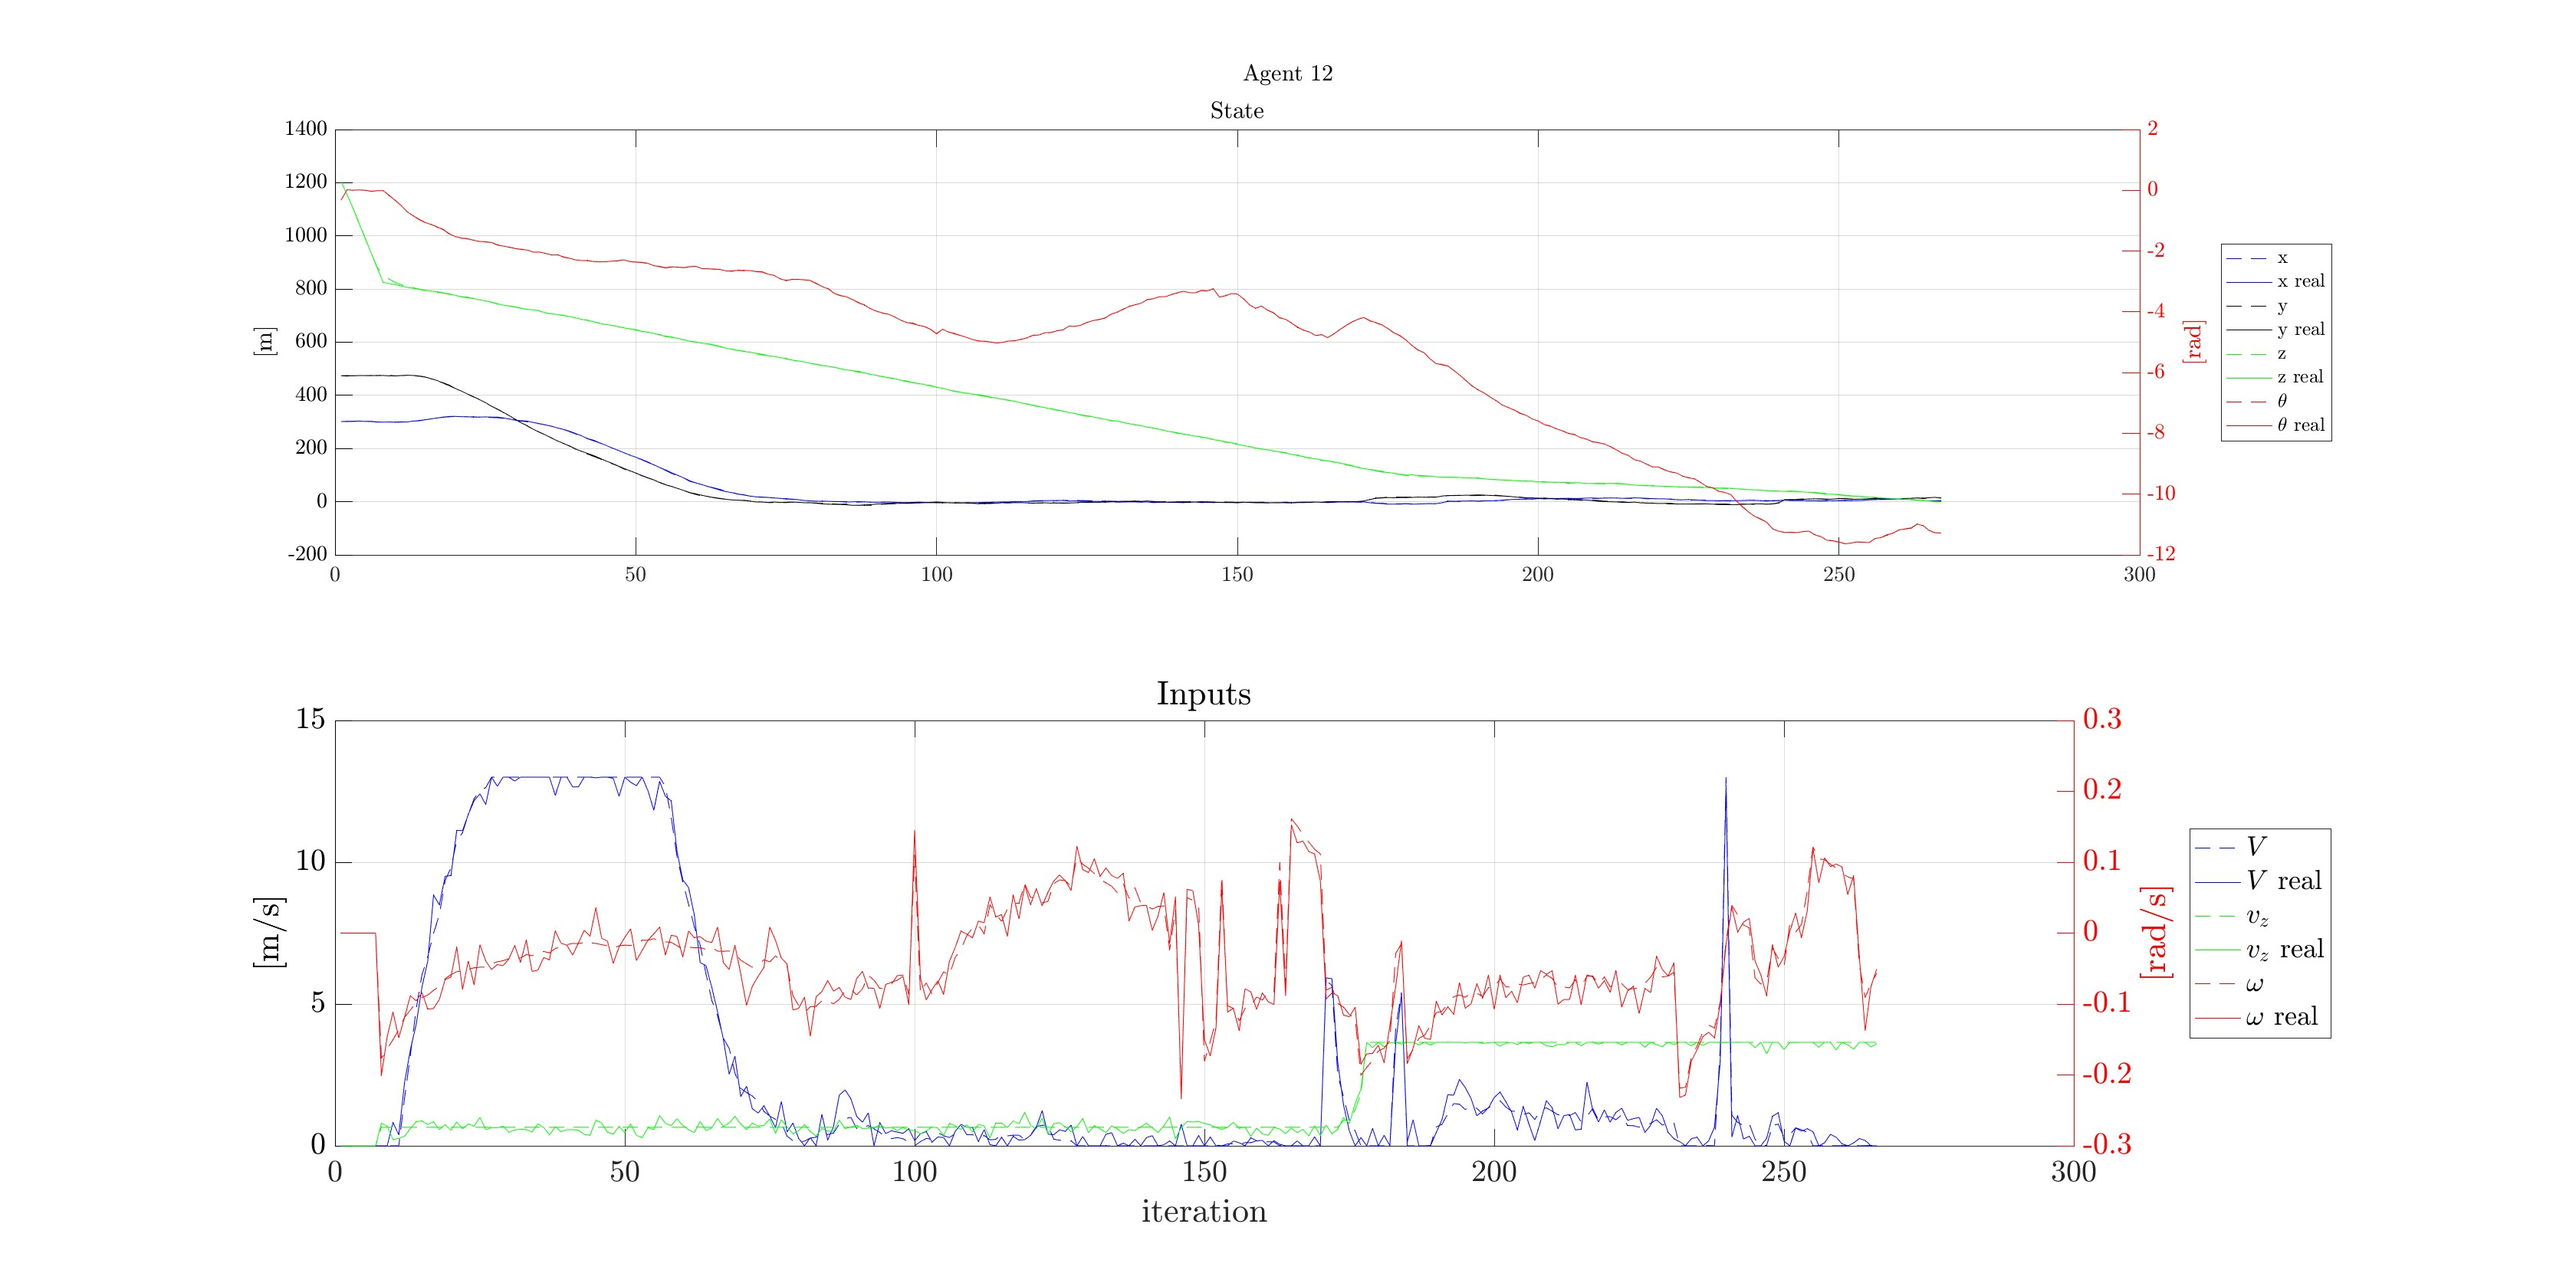
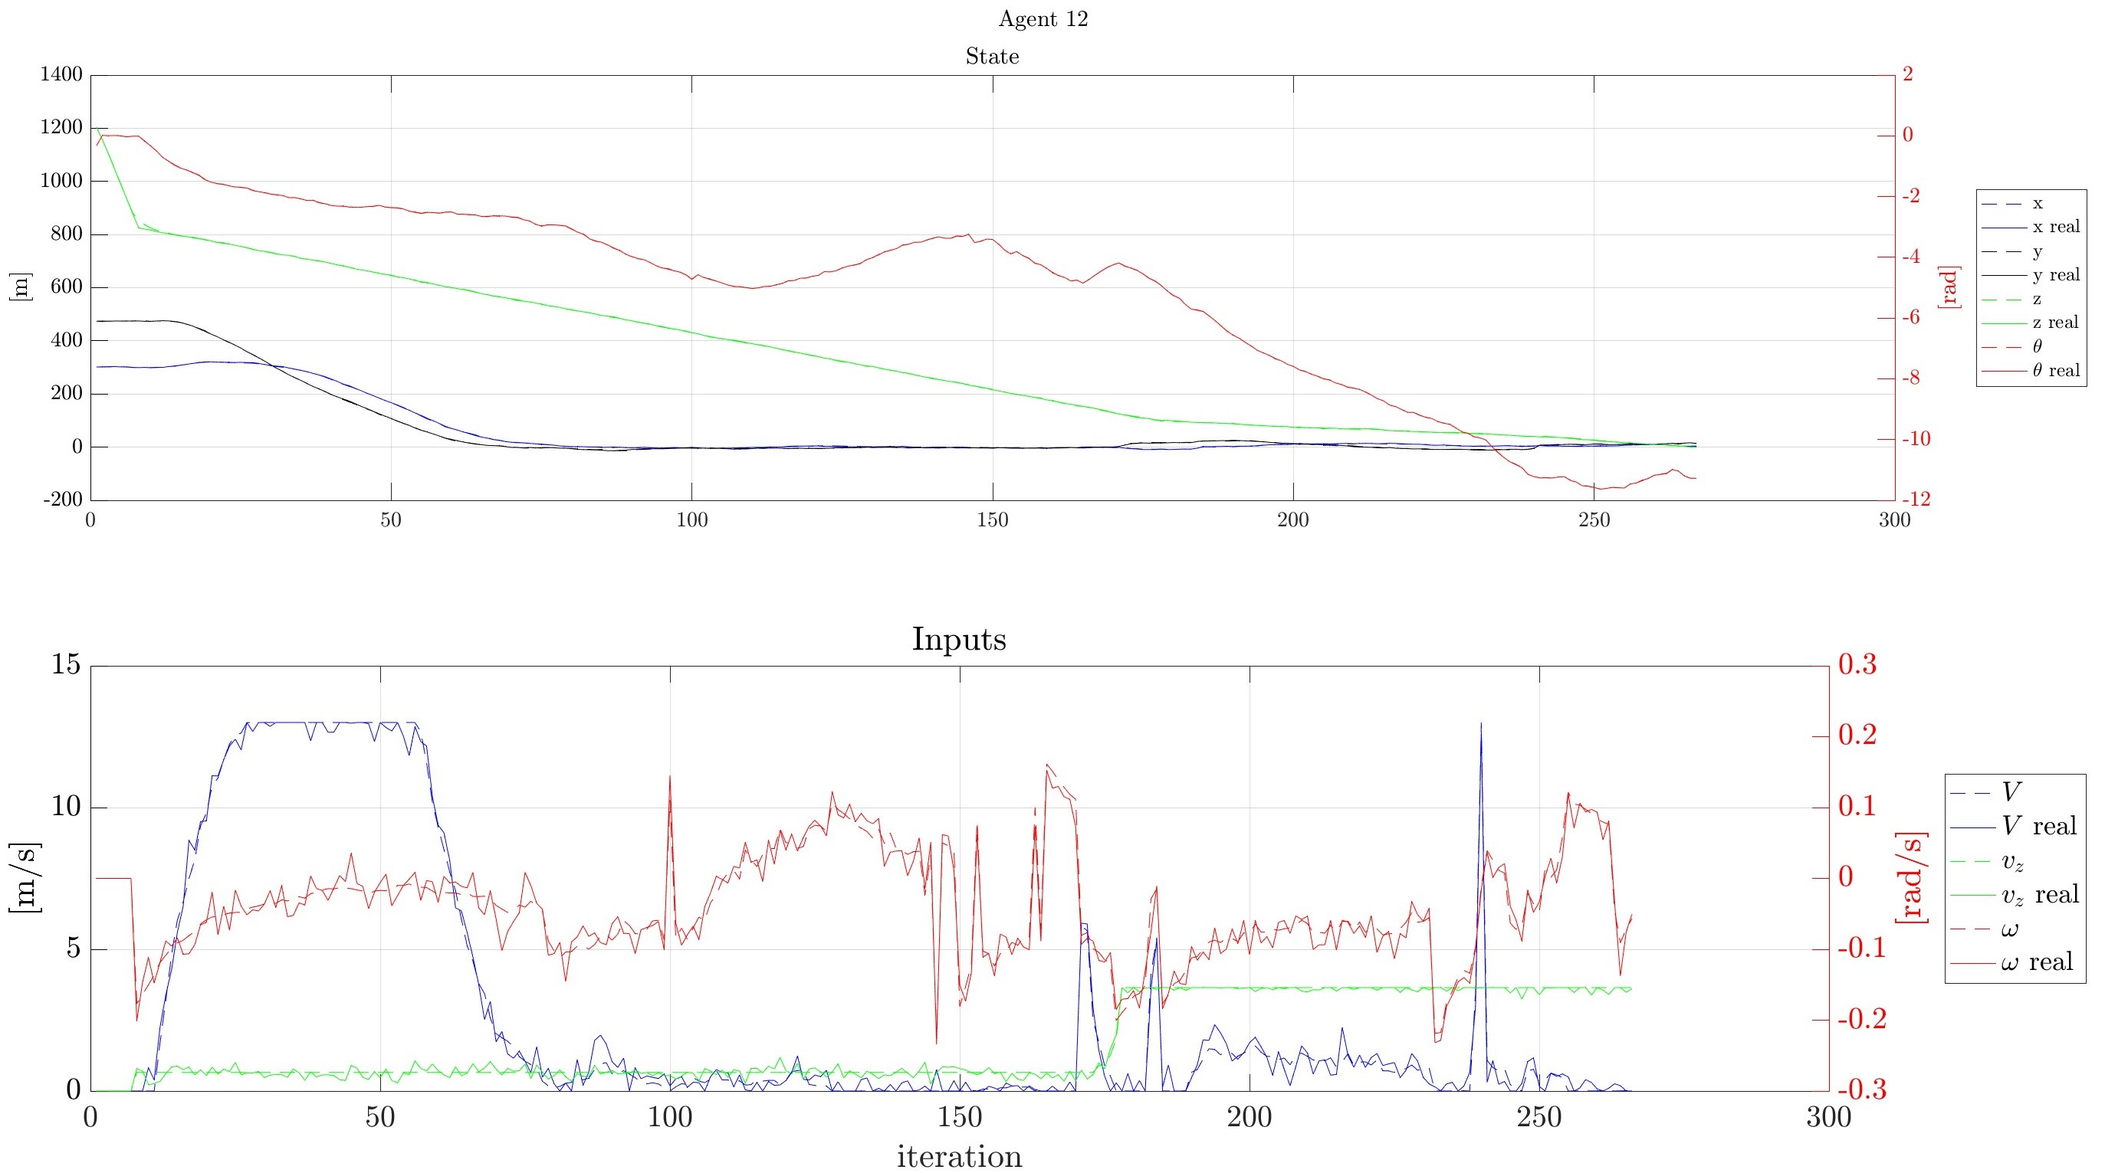
export figure added

diff --git a/src/functions/plot_chutes_trajectory.m b/src/functions/plot_chutes_trajectory.m
@@ -13,29 +13,30 @@ function [] = plot_chutes_trajectory(agents,true_centroid_store, j_fig, w_store,
   % if there is only one simulation plot the trajectory, the states, the inputs and the falling velocity
   if parametric == 0
     %% 3D trajectories
-    fig_3D = figure('Name', '3D trajectory','NumberTitle','off', 'Color', 'w'); clf;
-    hold all
-    for i=1:n_agents
-      plot3(agents{i}.x_real_store(1,:), agents{i}.x_real_store(2, :), agents{i}.x_real_store(3, :),'DisplayName', ['Agent ', num2str(i)])
-    end
-    plot3(target(1), target(2), target(3), 'o', 'MarkerSize', marker_size,'DisplayName', 'TARGET');
-    plot3(true_centroid_store(1, :), true_centroid_store(2,:), true_centroid_store(3, :), 'r--', 'DisplayName', 'Centroid', 'LineWidth', 2)
-    xlabel('x [m] ')
-    ylabel('y [m]')
-    zlabel('z [m]')
-    legend('Location', 'bestoutside')
-    title('3D Trajectory')
-    grid on
-    xlim([-500 500])
-    ylim([-50 600])
-    % xlim([-abs(2*x0(1)+0.6*position_range), abs(x0(1)+0.6*position_range)])
-    % ylim([-abs(x0(2)+0.6*position_range), abs(x0(2)+0.6*position_range)])
-    zlim([0, x0(3) + 0.6*position_range])
-    axis equal
-    set(gca,'FontSize',par.font_size)
-    if enable_export == 1
-       export_figure(fig_3D, 'fig_3D.eps', 'images\');
-    end
+    % fig_3D = figure('Name', '3D trajectory','NumberTitle','off', 'Color', 'w'); clf;
+    % hold all
+    % for i=1:n_agents
+    %   plot3(agents{i}.x_real_store(1,:), agents{i}.x_real_store(2, :), agents{i}.x_real_store(3, :),'DisplayName', ['Agent ', num2str(i)],'LineWidth',line_width)
+    % end
+    % plot3(target(1), target(2), target(3), 'o', 'MarkerSize', marker_size,'DisplayName', 'TARGET');
+    % plot3(true_centroid_store(1, :), true_centroid_store(2,:), true_centroid_store(3, :), 'r--', 'DisplayName', 'Centroid', 'LineWidth', 2*line_width)
+    % xlabel('x [m] ')
+    % ylabel('y [m]')
+    % zlabel('z [m]')
+    % legend('Location', 'best','FontSize',par.font_size)
+    % title('3D Trajectory')
+    % grid on
+    % xlim([-100 600])
+    % ylim([-200 800])
+    % % xlim([-abs(2*x0(1)+0.6*position_range), abs(x0(1)+0.6*position_range)])
+    % % ylim([-abs(x0(2)+0.6*position_range), abs(x0(2)+0.6*position_range)])
+    % zlim([0, x0(3) + 0.6*position_range])
+    % axis equal
+    % view(45,20)
+    % set(gca,'FontSize',par.font_size)
+    % if enable_export == 1
+    %    export_figure(fig_3D, 'fig_3D.eps', 'images\');
+    % end
 
     %% Vertical displacement
     figure('Name', 'Vert. disp.','NumberTitle','off', 'Color', 'w'); clf;
@@ -52,27 +53,29 @@ function [] = plot_chutes_trajectory(agents,true_centroid_store, j_fig, w_store,
 
     j_fig = 0;
     %% Inputs  and trajectories
-    for i=1:n_agents
+    % for i=1:n_agents
+    for i=12:12
       j_fig = j_fig+1;
       fig_1 = figure('Name', ['Chute', num2str(j_fig)],'NumberTitle','off', 'Color', 'w'); clf;
       subplot(211);  hold all
-      plot(agents{i}.x_store(1,1:end),'--','DisplayName', 'x', 'color', 'b')
-      plot(agents{i}.x_real_store(1,1:end),'DisplayName','x real','color','b')
-      plot(agents{i}.x_store(2,1:end),'--','DisplayName', 'y', 'color', 'k')
-      plot(agents{i}.x_real_store(2,1:end),'DisplayName','y real','color','k')
-      plot(agents{i}.x_store(3,1:end),'--','DisplayName', 'z', 'color', 'g')
+      plot(agents{i}.x_store(1,1:end),'--','DisplayName', 'x', 'color', 'b','LineWidth',line_width)
+      plot(agents{i}.x_real_store(1,1:end),'DisplayName','x real','color','b','LineWidth',line_width)
+      plot(agents{i}.x_store(2,1:end),'--','DisplayName', 'y', 'color', 'k','LineWidth',line_width)
+      plot(agents{i}.x_real_store(2,1:end),'DisplayName','y real','color','k','LineWidth',line_width)
+      plot(agents{i}.x_store(3,1:end),'--','DisplayName', 'z', 'color', 'g','LineWidth',line_width)
       ylabel('[m]')
-      plot(agents{i}.x_real_store(3,1:end),'DisplayName','z real','color','g')
+      plot(agents{i}.x_real_store(3,1:end),'DisplayName','z real','color','g','LineWidth',line_width)
       if mdl == 2
         yyaxis right
-        plot(agents{i}.x_store(4,1:end),'--','DisplayName', '$\theta$', 'color', 'r')
+        plot(agents{i}.x_store(4,1:end),'--','DisplayName', '$\theta$', 'color', 'r','LineWidth',line_width)
         hold on
-        plot(agents{i}.x_real_store(4,1:end),'-','DisplayName','$\theta$ real','color','r')
+        plot(agents{i}.x_real_store(4,1:end),'-','DisplayName','$\theta$ real','color','r','LineWidth',line_width)
         ylabel('[rad]', 'color', 'r')
         set(gca, 'YColor', 'r')
       end
       title('State')
-      legend('Location', 'eastoutside')
+      legend('Location', 'eastoutside','FontSize',par.font_size)
+      set(gca,'FontSize',par.font_size)
       grid on
       box on
       switch mdl
@@ -86,43 +89,43 @@ function [] = plot_chutes_trajectory(agents,true_centroid_store, j_fig, w_store,
         u_3 = '$v_z$';
       end
       subplot(212);  hold all
-      plot(agents{i}.u_store(1,2:end),'--','DisplayName', u_1,'color','b')
+      plot(agents{i}.u_store(1,2:end),'--','DisplayName', u_1,'color','b','LineWidth',line_width)
       ylabel('[m/s]')
-      plot(agents{i}.u_bar_store(1,2:end),'-','DisplayName',[u_1,' real'],'color','b')
+      plot(agents{i}.u_bar_store(1,2:end),'-','DisplayName',[u_1,' real'],'color','b','LineWidth',line_width)
       if mdl == 2
         yyaxis right
         hold on
         set(gca, 'YColor', 'r')
         ylabel('[rad/s]')
-        plot(agents{i}.u_store(2,2:end),'--','DisplayName', u_2,'color','r')
-        plot(agents{i}.u_bar_store(2,2:end),'-','DisplayName',[u_2,' real'],'color','r')
+        plot(agents{i}.u_store(2,2:end),'--','DisplayName', u_2,'color','r','LineWidth',line_width)
+        plot(agents{i}.u_bar_store(2,2:end),'-','DisplayName',[u_2,' real'],'color','r','LineWidth',line_width)
         yyaxis left
       elseif mdl == 1
-        plot(agents{i}.u_store(2,2:end),'--','DisplayName', u_2,'color','k')
-        plot(agents{i}.u_bar_store(2,2:end),'-','DisplayName',[u_2,' real'],'color','k')
+        plot(agents{i}.u_store(2,2:end),'--','DisplayName', u_2,'color','k','LineWidth',line_width)
+        plot(agents{i}.u_bar_store(2,2:end),'-','DisplayName',[u_2,' real'],'color','k','LineWidth',line_width)
       end
-      plot(agents{i}.u_store(3,2:end),'--','DisplayName', u_3,'color','g')
-      plot(agents{i}.u_bar_store(3,2:end),'-','DisplayName',[u_3,' real'],'color','g')
+      plot(agents{i}.u_store(3,2:end),'--','DisplayName', u_3,'color','g','LineWidth',line_width)
+      plot(agents{i}.u_bar_store(3,2:end),'-','DisplayName',[u_3,' real'],'color','g','LineWidth',line_width)
       title('Inputs')
       xlabel('iteration')
-      legend('Location', 'eastoutside')
+      legend('Location', 'eastoutside','FontSize',par.font_size)
       grid on
       set(gca,'FontSize',par.font_size)
       box on
-      sgtitle(['Agent ', num2str(i)])
+      % sgtitle(['Agent ', num2str(i)])
       if enable_export == 1 && j_fig == 1
-       export_figure(fig_3D, 'fig_1.eps', 'images\');
+       export_figure(fig_1, 'fig_1.eps', 'images\');
       end
     end
 
-    %% Weighting Factor
-    figure('Name','Weight function','NumberTitle','off','Color','w'); clf;
-    plot(w_store)
-    xlabel('step [s]')
-    ylabel('w')
-    title('Weighting factor for inverse kinematics')
-    grid on
-    box on
+    % %% Weighting Factor
+    % figure('Name','Weight function','NumberTitle','off','Color','w'); clf;
+    % plot(w_store)
+    % xlabel('step [s]')
+    % ylabel('w')
+    % title('Weighting factor for inverse kinematics')
+    % grid on
+    % box on
 
   elseif parametric == 1  %% Post processing for parametric study
   

diff --git a/src/functions/export_figure.m b/src/functions/export_figure.m
@@ -1,0 +1,25 @@
+
+function export_figure(fig, file_name, folder_name, v_size) 
+
+  figure_folder_name = folder_name;
+  warning('off', 'MATLAB:MKDIR:DirectoryExists');
+  
+  if nargin == 2
+      v_size = 4;
+  end
+  
+  status = mkdir(figure_folder_name);
+  status = mkdir(fullfile(figure_folder_name, "vectorial"));
+  status = mkdir(fullfile(figure_folder_name, "presentation"));
+  status = mkdir(fullfile(figure_folder_name, "matlab"));
+  
+  export_fig(fig, fullfile(figure_folder_name, "vectorial" ,file_name));
+
+%   file_name = char(file_name);
+%   file_name = string(file_name(1:end-4)) + ".emf";
+%   export_fig(fig, fullfile(figure_folder_name, "presentation" ,file_name));
+%   file_name = char(file_name);
+%   file_name = string(file_name(1:end-4)) + ".fig";
+%   savefig(fig, fullfile(figure_folder_name, "matlab", file_name));
+
+end

diff --git a/src/functions/parameters.m b/src/functions/parameters.m
@@ -133,9 +133,9 @@ function par = parameters(variable_param, user_par, par)
   par.R = 0.1*eye(2);                                 % weight for inputs
 
   %% Plots settings
-  par.marker_size = 10;
+  par.marker_size = 20;
   par.line_width = 2;
-  par.font_size = 20;
+  par.font_size = 30;
   % colors
   par.colors_vect = [[0 0.4470 0.7410]; [0.8500 0.3250 0.0980]; ...
                 [0.9290 0.6940 0.1250]; [0.4940 0.1840 0.5560]; ...
